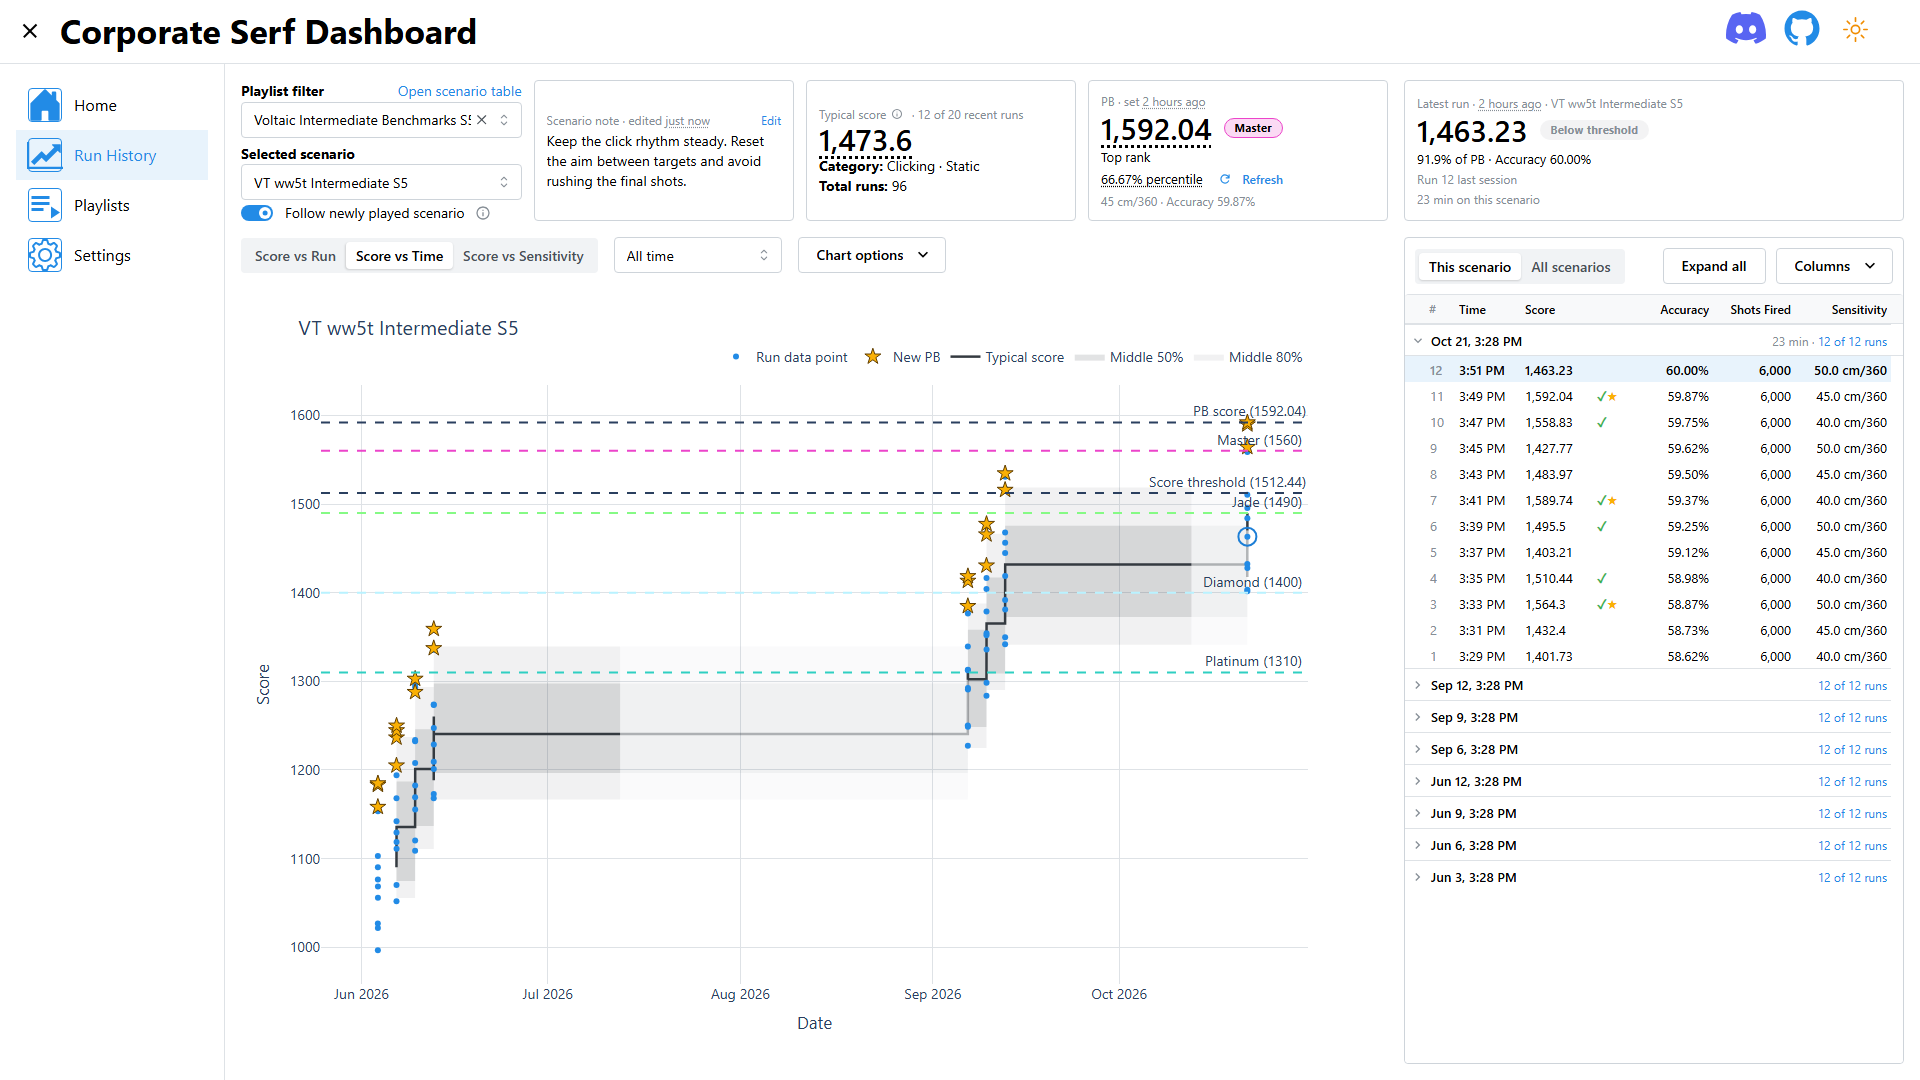
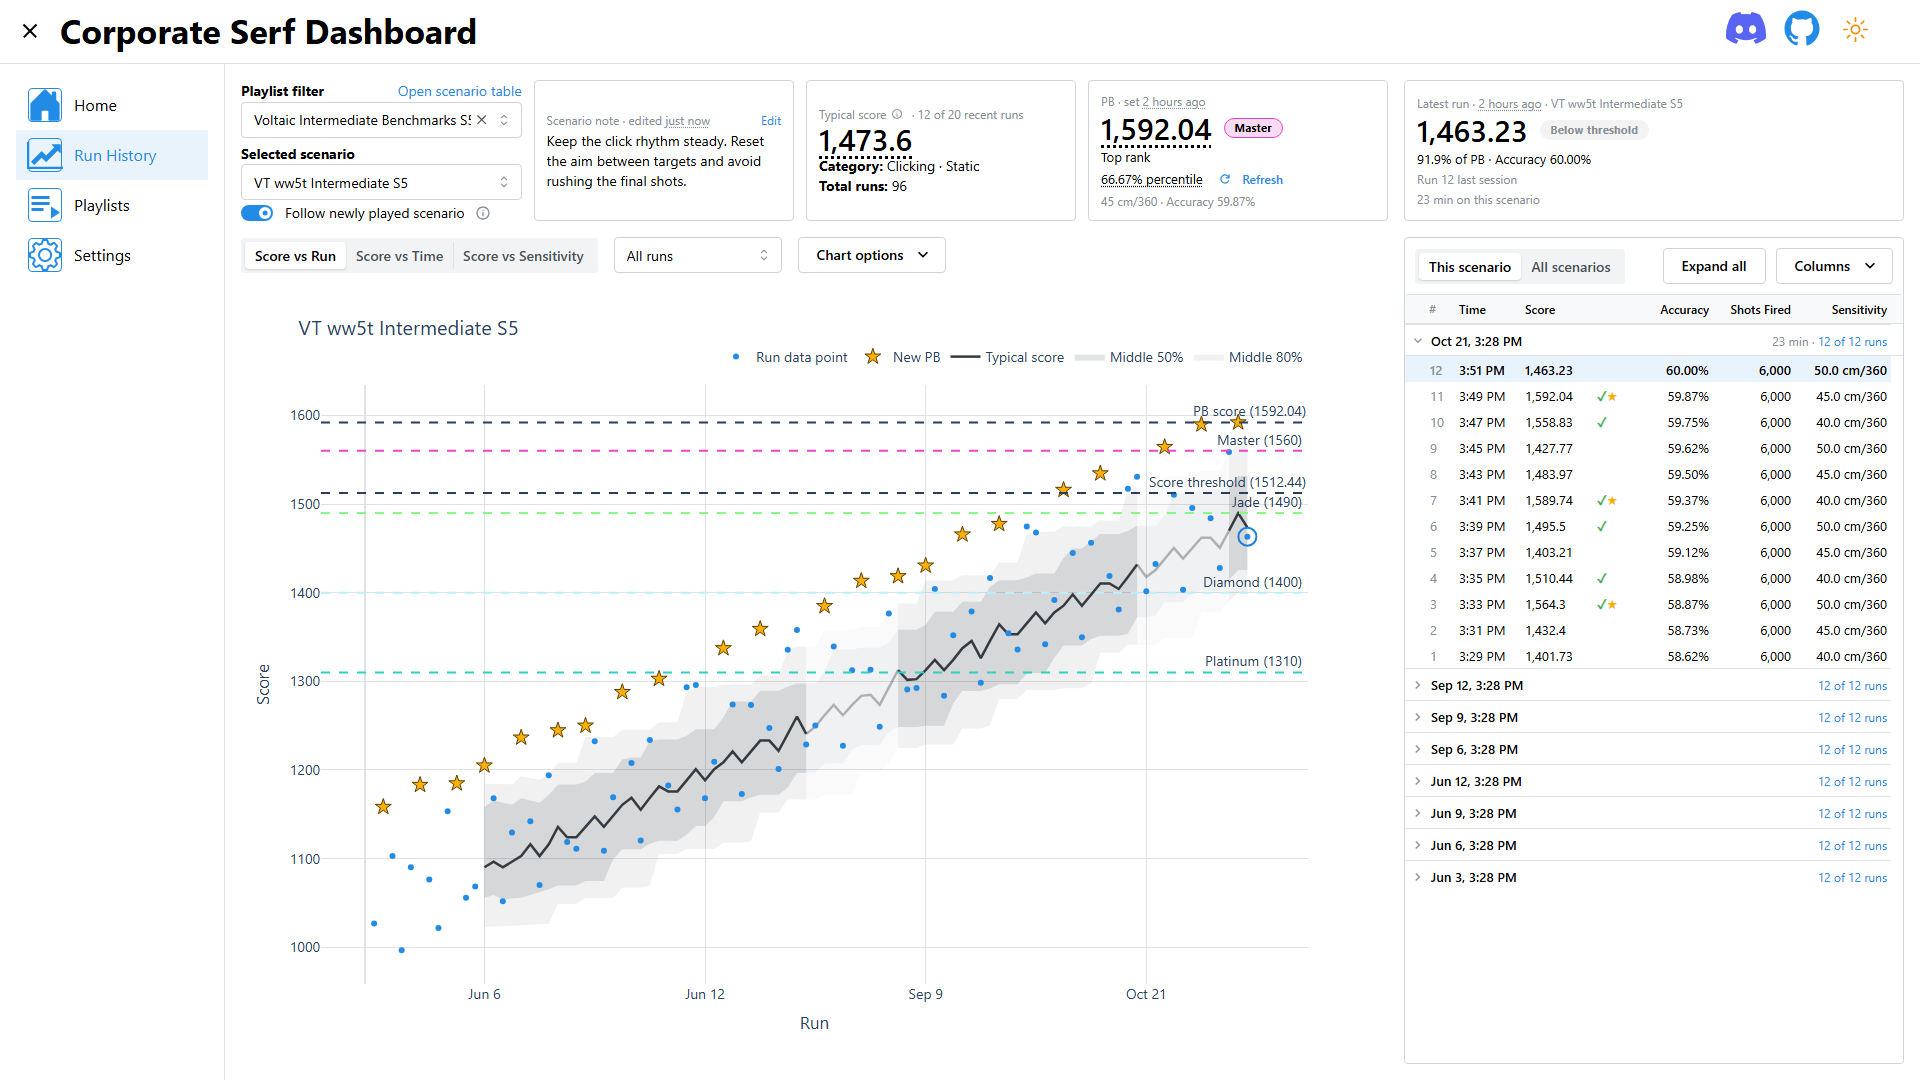
fix: apply screenshot review follow-ups and show all runs

diff --git a/scripts/capture_screenshots.py b/scripts/capture_screenshots.py
@@ -290,13 +290,14 @@ def capture(origin: str, destination: Path) -> None:
             page.locator("#run-history-list-grid .run-list-row-latest").first
         ).to_be_visible()
         expect(page.get_by_text(NOTE_TEXT, exact=True)).to_be_visible()
-        page.get_by_text("Score vs Time", exact=True).click()
-        page.locator("#run-history-day-range").click()
-        page.get_by_role("option", name="All time", exact=True).click()
+        page.get_by_text("Score vs Run", exact=True).click()
+        page.locator("#run-history-run-range").click()
+        page.get_by_role("option", name="All runs", exact=True).click()
+        expect(page.locator("#run-history-run-range")).to_have_value("All runs")
         page.wait_for_function("""() => {
             const graph = document.querySelector('#run-history-graph .js-plotly-plot');
             const typical = graph?.data?.filter(trace => trace.name === 'Typical score') || [];
-            return graph?._fullLayout?.xaxis.type === 'date'
+            return graph?._fullLayout?.xaxis.type === 'linear'
                 && graph.data[0].x.length === 96
                 && typical.some(trace => trace.opacity === 0.35)
                 && typical.some(trace => trace.opacity === 1);

diff --git a/docs/dependency_refresh.md b/docs/dependency_refresh.md
@@ -40,7 +40,7 @@ differently:
 | `pandas-stubs` | the `dev` group, as a `~=` pin | follows pandas' major.minor line |
 | pre-commit ruff | `rev` in `.pre-commit-config.yaml` | must equal the locked ruff |
 | uv | `required-version` and the `uv_build` range in `pyproject.toml` | the latest release; see [uv](#uv) |
-| GitHub Actions | each `uses:` line in `.github/workflows/*.yml` | `gh api repos/<owner>/<action>/releases/latest --jq .tag_name`, per action; report only, see [GitHub Actions](#github-actions) |
+| GitHub Actions | each `uses:` line in `.github/workflows/*.yml` | `gh api repos/<owner>/<action>/releases/latest --jq .tag_name`, per action; see [GitHub Actions](#github-actions) |
 | Vendored browser libraries | `assets/vendor/` | the upstream project; steps in [assets/vendor/README.md](../assets/vendor/README.md) |
 
 The Python version is not part of a refresh. Moving it is its own change, with
@@ -133,13 +133,17 @@ CI needs no edit, because `setup-uv` reads the pin from `pyproject.toml`.
 
 ### GitHub Actions
 
-A refresh reports these pins and does not move them. They move through the
+A refresh reports pins carried by the tooling spec and does not move them.
+They move through the
 [cross-repo tooling spec](decision_log/2026/2026-10-05-adopt-the-cross-repo-python-v3-tooling-spec.md),
-which the maintainer keeps outside this repository. The workflow's top-level
-settings and its `test` job are this repository's copy of the spec's workflow.
+which the maintainer keeps outside this repository. The top-level settings
+and `test` job in `ci.yml` are this repository's copy of the spec's workflow.
 The spec carries these exact SHAs, so moving them here alone makes this copy
 drift from the spec. A pin bump is a new version of the spec, which each
-repository then adopts.
+repository then adopts. Pins the spec doesn't carry, such as
+`actions/upload-artifact` in the screenshot workflow, are updated in this
+repository during a refresh, using the same release-note and SHA-against-tag
+checks below.
 
 1. For each action in `.github/workflows/*.yml`, find the latest release:
 
@@ -147,11 +151,12 @@ repository then adopts.
    gh api repos/<owner>/<action>/releases/latest --jq .tag_name
    ```
 
-2. Name any pin that is behind in the PR body, as material for the next
-   version of the spec.
+2. Name any spec-owned pin that is behind in the PR body, as material for the
+   next version of the spec. Update repository-owned pins to the latest release.
 
-When this repository adopts a spec version that moves a pin, read the release
-notes for each major version crossed, and check the new SHA against its tag:
+For a repository-owned pin bump or adoption of a spec version that moves a pin,
+read the release notes for each major version crossed, and check the new SHA
+against its tag:
 
 ```powershell
 gh api repos/<owner>/<action>/commits/<tag> --jq .sha
@@ -160,11 +165,13 @@ gh api repos/<owner>/<action>/commits/<tag> --jq .sha
 Replace the SHA and the version comment on every `uses:` line for that action,
 the release jobs' lines included, and commit as `ci: bump pinned actions`.
 
-The PR's CI runs a bumped action only in the `test` job. The first run on
-`main` after the merge adds `release-gate`. The `release` job is skipped for a
-workflow-only change, so its first run with the new pins is the next merge
+For pins in `ci.yml`, the PR's CI runs a bumped action only in the `test`
+job. The first run on `main` after the merge adds `release-gate`. The
+`release` job is skipped for a workflow-only change, so its first run with the
+new pins is the next merge
 that cuts a release: watch that one. A failed release job can be rerun: it
-reuses its tag and resumes its draft.
+reuses its tag and resumes its draft. Validate pins in other workflows by
+running the workflow that uses them.
 
 ## Verify by what moved
 

diff --git a/docs/screenshots/README.md b/docs/screenshots/README.md
@@ -45,8 +45,11 @@ uv run --group screenshots pytest tests/test_capture_screenshots_browser.py
 
 They check that errors on the clean reload fail capture without replacing
 existing images, while noise on the initial load is ignored. The standard test
-suite skips these browser checks when the optional screenshot tools aren't
-installed.
+suite skips these browser checks when the optional screenshot Python packages
+aren't installed. Once the screenshots group is installed, `uv run pytest tests`
+also runs these checks and requires Chromium from the installation step above.
+`uv run` retains installed optional packages; `uv sync --locked` restores the
+default development environment.
 
 ## Capture contract
 
@@ -59,10 +62,10 @@ never read or changed.
 
 The sample clock is fixed to October 21, 2026, at 18:00 UTC in both Python and
 the browser. Chromium uses English, UTC, a light theme and a fresh browser
-context. Run History shows VT ww5t Intermediate S5 at 1920 by 1080 in Score vs
-Time with All time selected. Its sample history includes long breaks, so the
-Typical score line and bands visibly change between full-strength and faded
-support.
+context. Captures use a 1× device scale. Run History shows VT ww5t Intermediate
+S5 at 1920 by 1080 in Score vs Run with All runs selected. Its sample history
+includes long breaks, so the Typical score line and bands visibly change
+between full-strength and faded support.
 
 For both table screenshots, the capture tool collapses the left navigation and
 measures the total width of every displayed column. It expands the viewport to
